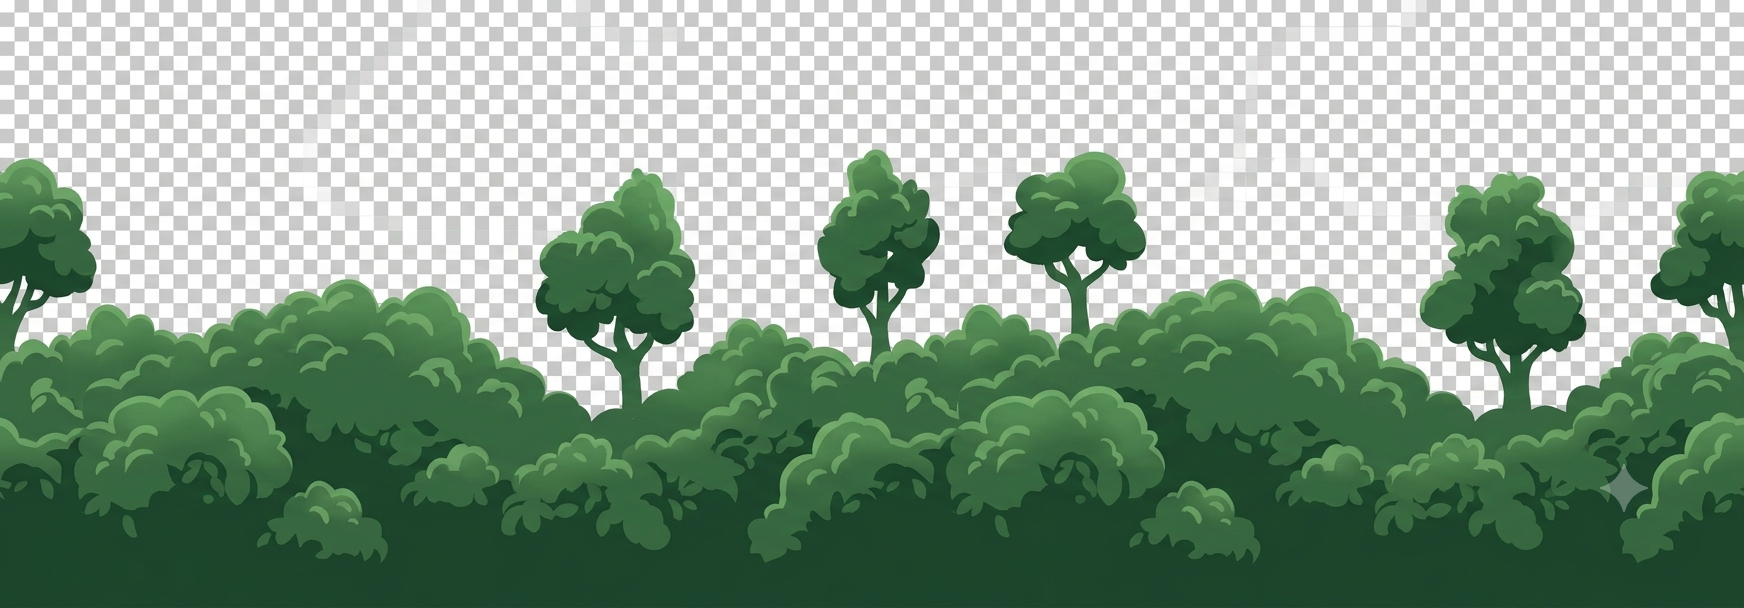
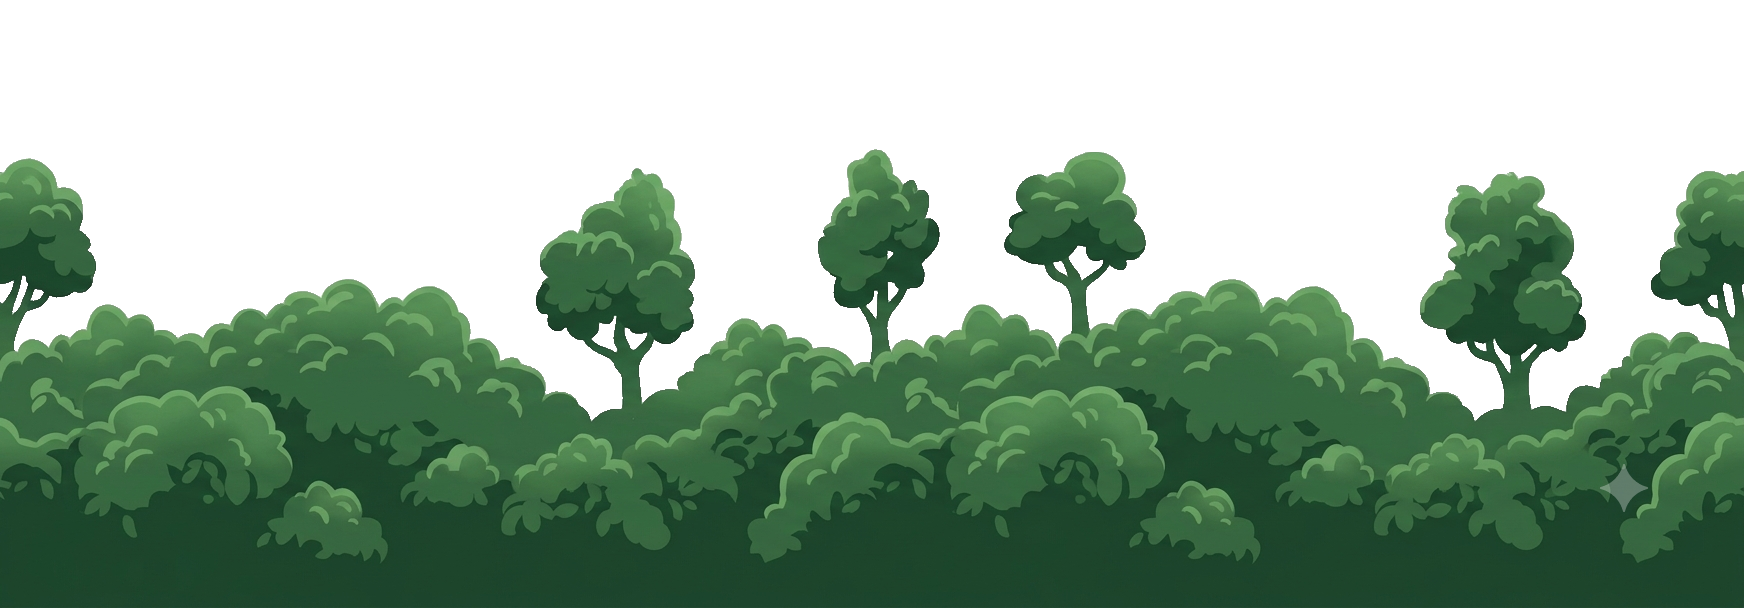
GELECA v23: transparência ASSADA nas camadas (fim do xadrez no githack)
O xadrez aparecia no githack porque o getImageData (remoção do xadrez em
runtime) falhava lá — o canvas ficava "tainted" pelo jeito que o githack
serve a imagem, o try/catch engolia o erro e mostrava o xadrez cru.

Correção definitiva: as PNGs das camadas foram reprocessadas pra ter ALFA
DE VERDADE (RGBA, transparência assada no arquivo). O jogo agora usa as
imagens direto — sem getImageData, sem dependência de CORS/host. Removido o
keyCheckerboard em runtime.

Claude-Session: https://claude.ai/code/session_01EbSkREzXFkmQR9kLV1N6oq

Changed region(s): [[0.0, 0.0, 1.0, 0.6875]]

diff --git a/geleca/game.js b/geleca/game.js
@@ -34,24 +34,11 @@ const THEMES={
   grove: { sky0:"#1c3d2a", sky1:"#0a1c14", mote:"150,240,150", tile:"#294a34", tilehi:"#3f6c49",
            top:"#5ec457", top2:"#8bec7c", far:"#153020", mid:"#1e4a32", cloud:"180,235,185", amb:"fireflies", deco:"grove", glow:"90,210,120", art:"vale" },
 };
-// ARTE de parallax por IA (Mundo 1 · Vale) — 4 camadas. As camadas transparentes vieram com
-// o xadrez de transparência CHAPADO (sem canal alfa), então recortamos o xadrez (cinza claro) ao carregar.
-const BG={};
-function keyCheckerboard(img){
-  const c=document.createElement("canvas"); c.width=img.naturalWidth; c.height=img.naturalHeight;
-  const x=c.getContext("2d"); x.drawImage(img,0,0);
-  try{ const d=x.getImageData(0,0,c.width,c.height), a=d.data;
-    for(let i=0;i<a.length;i+=4){ const r=a[i],g=a[i+1],b=a[i+2];
-      const gray=Math.abs(r-g)<22&&Math.abs(g-b)<22&&Math.abs(r-b)<22, light=(r+g+b)>430;
-      if(gray&&light) a[i+3]=0;                       // xadrez → transparente
-    } x.putImageData(d,0,0);
-  }catch(e){}
-  return c;
-}
-["ceu","montanhas","floresta"].forEach(n=>{ try{ const im=new Image();
-  im.onload=()=>{ BG[n+"_c"] = (n==="ceu") ? im : keyCheckerboard(im); };
-  im.src=n+".png"; BG[n]=im; }catch(e){} });
-function groveArtReady(){ return BG.ceu_c && BG.montanhas_c && BG.floresta_c; }
+// ARTE de parallax por IA (Mundo 1 · Vale) — 3 camadas PNG (já com alfa de verdade, transparência
+// assada no arquivo). Sem getImageData/runtime — funciona em qualquer host.
+const BG={}; ["ceu","montanhas","floresta"].forEach(n=>{ try{ const im=new Image(); im.src=n+".png"; BG[n]=im; }catch(e){} });
+function imgOk(im){ return im && im.complete && im.naturalWidth>0; }
+function groveArtReady(){ return imgOk(BG.ceu) && imgOk(BG.montanhas) && imgOk(BG.floresta); }
 
 // -------------------------------------------------------------------------- FASES
 // #=sólido @=início E=saída ^=espinho o=gosma P=placa D=porta H=calor I=GELO(escorrega)
@@ -1331,14 +1318,14 @@ function bandLayer(src, factor, baseYf, hf){
   for(let x=off; x<W; x+=dw) ctx.drawImage(src, 0,0,sw,sh, x,y,dw,dh);
 }
 function drawValeArt(){
-  const W=canvas.width, H=canvas.height, sky=BG.ceu_c, iw=sky.naturalWidth||sky.width, ih=sky.naturalHeight||sky.height;
+  const W=canvas.width, H=canvas.height, sky=BG.ceu, iw=sky.naturalWidth, ih=sky.naturalHeight;
   const sw=Math.floor(iw*0.955);
   // CÉU (cobre a tela; parallax leve, sem repetir)
   const s=Math.max(W/sw, H/ih)*1.04, dw=sw*s, dh=ih*s;
   const sx=-((cam.x*zoom*0.05)%dw), sy=(H-dh)*0.5 - cam.y*zoom*0.02;
   for(let x=sx-dw; x<W; x+=dw) ctx.drawImage(sky, 0,0,sw,ih, x,sy,dw,dh);
-  bandLayer(BG.montanhas_c, 0.12, 0.62, 0.42);        // montanhas distantes (no horizonte)
-  bandLayer(BG.floresta_c,  0.30, 0.74, 0.40);        // floresta média (fundo)
+  bandLayer(BG.montanhas, 0.12, 0.62, 0.42);          // montanhas distantes (no horizonte)
+  bandLayer(BG.floresta,  0.30, 0.74, 0.40);          // floresta média (fundo)
 }
 function drawParallax(th){
   const W=canvas.width, H=canvas.height, sc=W/640;
